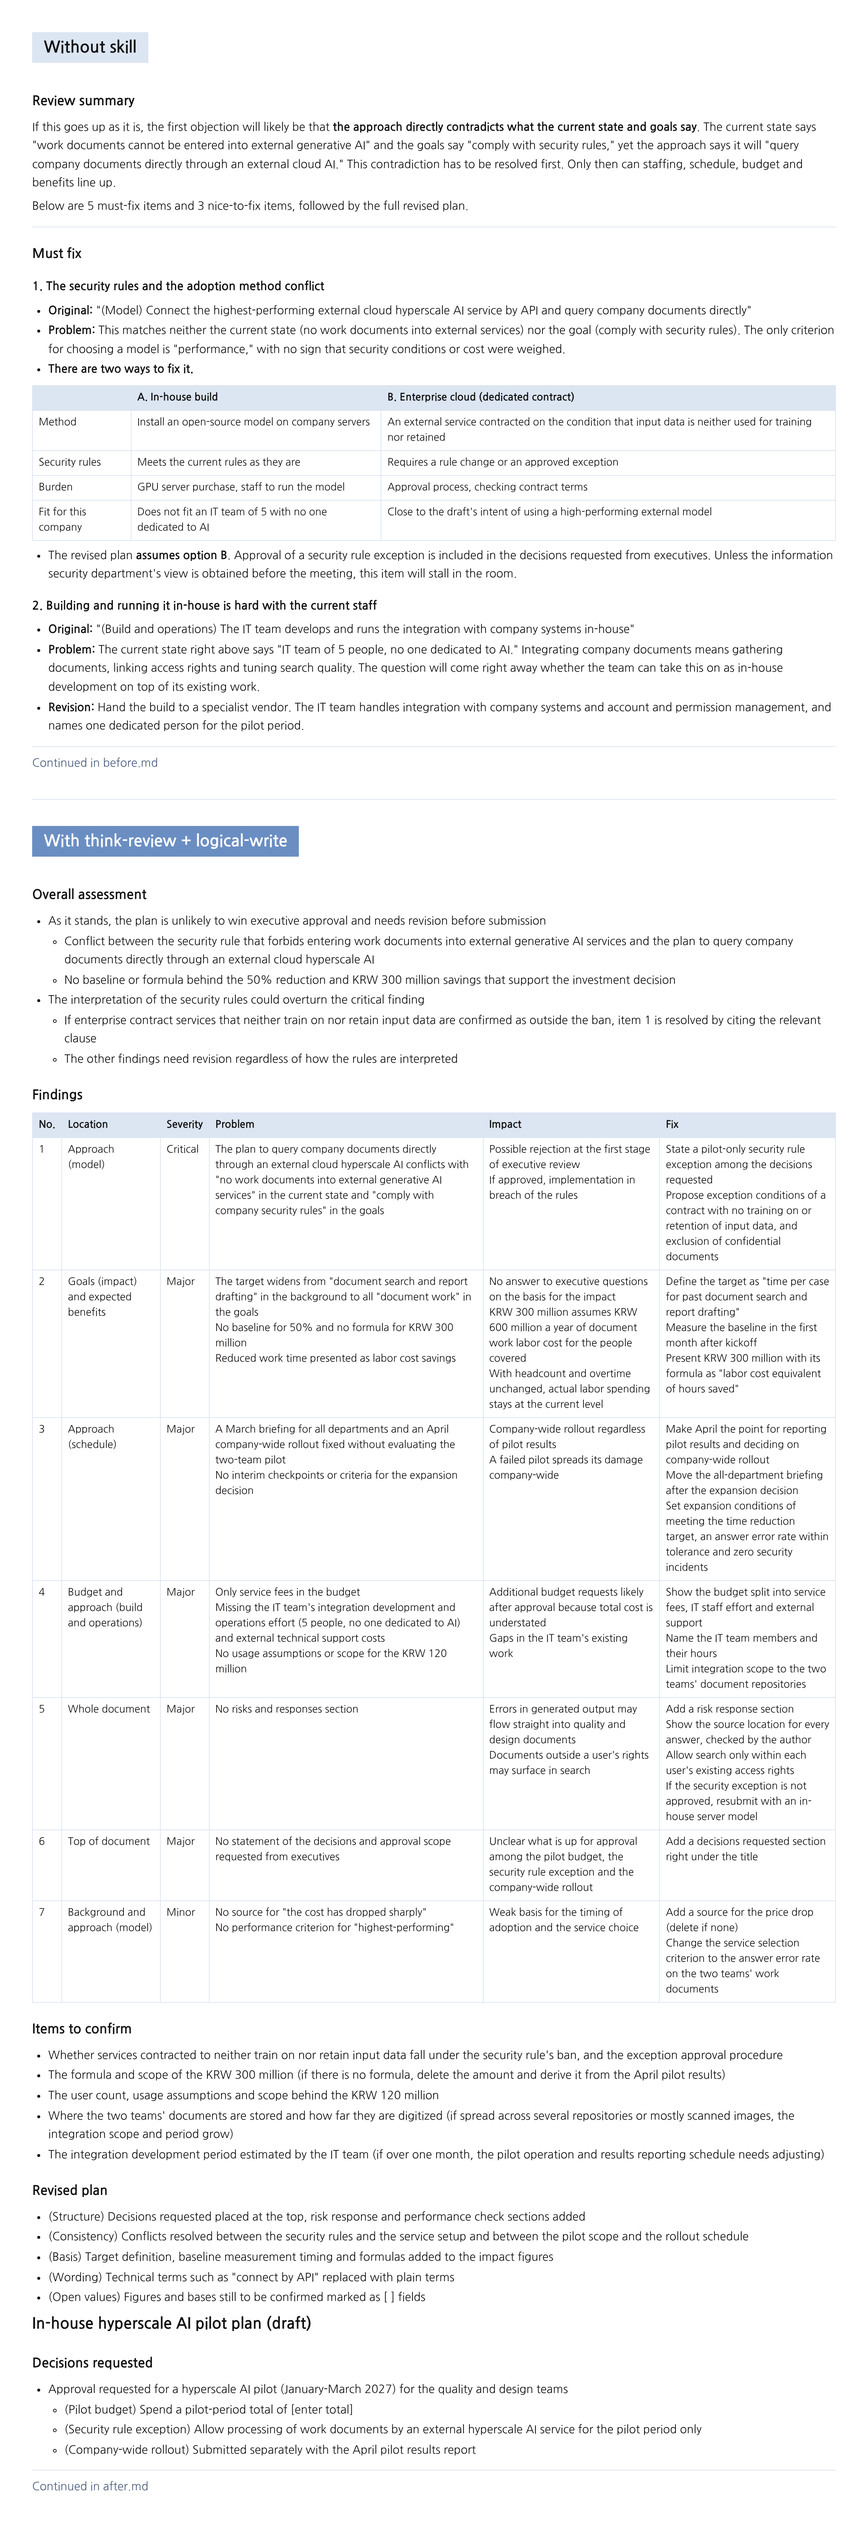
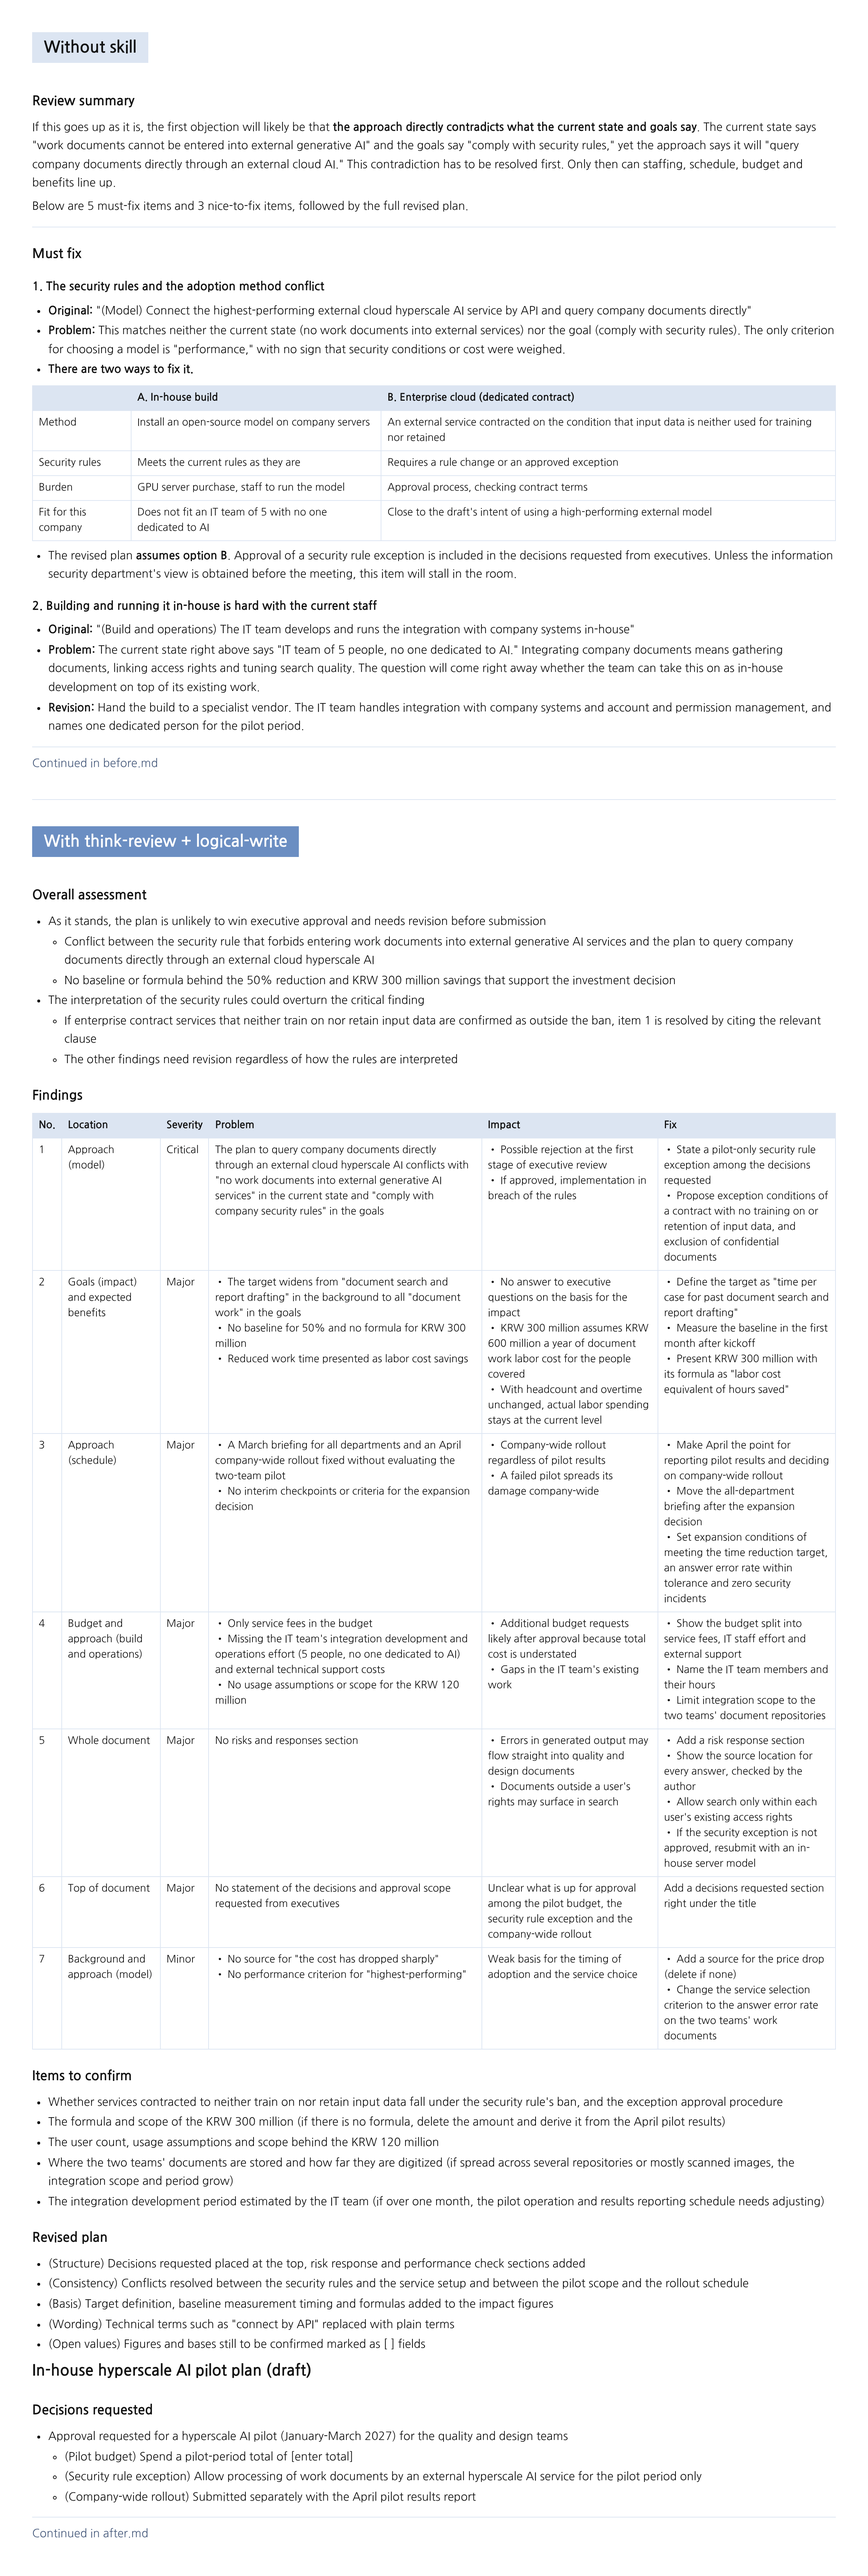
Bullet multi-line cells in the think-review findings table
The findings table joined several points per cell with <br>, which read
as one run-on block. Each line of a multi-line cell now starts with a
bullet in the Korean and English samples. Single-line cells are
unchanged. Both compare images were re-rendered from the edited text.

Claude-Session: https://claude.ai/code/session_013Pa4KQnbYgEBc9eWftjgtJ

diff --git a/skills/think-review/demo/en/after.md b/skills/think-review/demo/en/after.md
@@ -10,13 +10,13 @@
 
 | No. | Location | Severity | Problem | Impact | Fix |
 |---|---|---|---|---|---|
-| 1 | Approach (model) | Critical | The plan to query company documents directly through an external cloud hyperscale AI conflicts with "no work documents into external generative AI services" in the current state and "comply with company security rules" in the goals | Possible rejection at the first stage of executive review<br>If approved, implementation in breach of the rules | State a pilot-only security rule exception among the decisions requested<br>Propose exception conditions of a contract with no training on or retention of input data, and exclusion of confidential documents |
-| 2 | Goals (impact) and expected benefits | Major | The target widens from "document search and report drafting" in the background to all "document work" in the goals<br>No baseline for 50% and no formula for KRW 300 million<br>Reduced work time presented as labor cost savings | No answer to executive questions on the basis for the impact<br>KRW 300 million assumes KRW 600 million a year of document work labor cost for the people covered<br>With headcount and overtime unchanged, actual labor spending stays at the current level | Define the target as "time per case for past document search and report drafting"<br>Measure the baseline in the first month after kickoff<br>Present KRW 300 million with its formula as "labor cost equivalent of hours saved" |
-| 3 | Approach (schedule) | Major | A March briefing for all departments and an April company-wide rollout fixed without evaluating the two-team pilot<br>No interim checkpoints or criteria for the expansion decision | Company-wide rollout regardless of pilot results<br>A failed pilot spreads its damage company-wide | Make April the point for reporting pilot results and deciding on company-wide rollout<br>Move the all-department briefing after the expansion decision<br>Set expansion conditions of meeting the time reduction target, an answer error rate within tolerance and zero security incidents |
-| 4 | Budget and approach (build and operations) | Major | Only service fees in the budget<br>Missing the IT team's integration development and operations effort (5 people, no one dedicated to AI) and external technical support costs<br>No usage assumptions or scope for the KRW 120 million | Additional budget requests likely after approval because total cost is understated<br>Gaps in the IT team's existing work | Show the budget split into service fees, IT staff effort and external support<br>Name the IT team members and their hours<br>Limit integration scope to the two teams' document repositories |
-| 5 | Whole document | Major | No risks and responses section | Errors in generated output may flow straight into quality and design documents<br>Documents outside a user's rights may surface in search | Add a risk response section<br>Show the source location for every answer, checked by the author<br>Allow search only within each user's existing access rights<br>If the security exception is not approved, resubmit with an in-house server model |
+| 1 | Approach (model) | Critical | The plan to query company documents directly through an external cloud hyperscale AI conflicts with "no work documents into external generative AI services" in the current state and "comply with company security rules" in the goals | • Possible rejection at the first stage of executive review<br>• If approved, implementation in breach of the rules | • State a pilot-only security rule exception among the decisions requested<br>• Propose exception conditions of a contract with no training on or retention of input data, and exclusion of confidential documents |
+| 2 | Goals (impact) and expected benefits | Major | • The target widens from "document search and report drafting" in the background to all "document work" in the goals<br>• No baseline for 50% and no formula for KRW 300 million<br>• Reduced work time presented as labor cost savings | • No answer to executive questions on the basis for the impact<br>• KRW 300 million assumes KRW 600 million a year of document work labor cost for the people covered<br>• With headcount and overtime unchanged, actual labor spending stays at the current level | • Define the target as "time per case for past document search and report drafting"<br>• Measure the baseline in the first month after kickoff<br>• Present KRW 300 million with its formula as "labor cost equivalent of hours saved" |
+| 3 | Approach (schedule) | Major | • A March briefing for all departments and an April company-wide rollout fixed without evaluating the two-team pilot<br>• No interim checkpoints or criteria for the expansion decision | • Company-wide rollout regardless of pilot results<br>• A failed pilot spreads its damage company-wide | • Make April the point for reporting pilot results and deciding on company-wide rollout<br>• Move the all-department briefing after the expansion decision<br>• Set expansion conditions of meeting the time reduction target, an answer error rate within tolerance and zero security incidents |
+| 4 | Budget and approach (build and operations) | Major | • Only service fees in the budget<br>• Missing the IT team's integration development and operations effort (5 people, no one dedicated to AI) and external technical support costs<br>• No usage assumptions or scope for the KRW 120 million | • Additional budget requests likely after approval because total cost is understated<br>• Gaps in the IT team's existing work | • Show the budget split into service fees, IT staff effort and external support<br>• Name the IT team members and their hours<br>• Limit integration scope to the two teams' document repositories |
+| 5 | Whole document | Major | No risks and responses section | • Errors in generated output may flow straight into quality and design documents<br>• Documents outside a user's rights may surface in search | • Add a risk response section<br>• Show the source location for every answer, checked by the author<br>• Allow search only within each user's existing access rights<br>• If the security exception is not approved, resubmit with an in-house server model |
 | 6 | Top of document | Major | No statement of the decisions and approval scope requested from executives | Unclear what is up for approval among the pilot budget, the security rule exception and the company-wide rollout | Add a decisions requested section right under the title |
-| 7 | Background and approach (model) | Minor | No source for "the cost has dropped sharply"<br>No performance criterion for "highest-performing" | Weak basis for the timing of adoption and the service choice | Add a source for the price drop (delete if none)<br>Change the service selection criterion to the answer error rate on the two teams' work documents |
+| 7 | Background and approach (model) | Minor | • No source for "the cost has dropped sharply"<br>• No performance criterion for "highest-performing" | Weak basis for the timing of adoption and the service choice | • Add a source for the price drop (delete if none)<br>• Change the service selection criterion to the answer error rate on the two teams' work documents |
 
 ## Items to confirm
 - Whether services contracted to neither train on nor retain input data fall under the security rule's ban, and the exception approval procedure

diff --git a/skills/think-review/demo/ko/after.md b/skills/think-review/demo/ko/after.md
@@ -10,13 +10,13 @@
 
 | 번호 | 위치 | 심각도 | 문제 | 영향 | 수정안 |
 |---|---|---|---|---|---|
-| 1 | 추진 방안 (모델) | 치명 | 외부 클라우드 초거대AI에 사내 문서를 직접 질의하는 방안이 현황의 "외부 생성형 AI 서비스에 업무 문서 입력 불가" 및 목표의 "사내 보안 규정 준수"와 충돌 | 경영진 검토 첫 단계에서 반려 가능<br>승인 시 규정 위반 상태로 시행 | 시범 기간 한정 보안 규정 예외를 결정 요청 사항에 명시<br>예외 조건으로 입력 데이터 미학습 및 미보관 계약과 기밀 등급 문서 제외 제시 |
-| 2 | 추진 목표 (도입 효과) 및 기대 효과 | 중요 | 단축 대상이 배경의 "문서 검색과 보고서 초안 작성"에서 목표의 "문서 업무" 전체로 확대<br>50%의 기준값과 3억 원의 산출식 부재<br>업무 시간 단축을 인건비 절감으로 표기 | 효과 근거에 대한 경영진 질의에 답변 불가<br>3억 원은 대상 인원의 연간 문서 업무 인건비 6억 원을 전제<br>인원과 초과근무 유지 시 실제 인건비 지출은 현 수준 유지 | 단축 대상을 "과거 문서 검색과 보고서 초안 작성의 건당 소요 시간"으로 정의<br>착수 첫 달에 기준값 측정<br>3억 원은 산출식과 함께 "절감 시간의 인건비 환산액"으로 표기 |
-| 3 | 추진 방안 (일정) | 중요 | 두 팀 시범의 결과 평가 없이 3월 전 부서 설명회와 4월 전사 확대 확정<br>중간 점검 지표와 확대 판단 기준 부재 | 시범 결과와 관계없이 전사 확대 진행<br>시범 실패 시 피해가 전사로 확산 | 4월을 시범 결과 보고와 전사 확대 여부 결정 시점으로 변경<br>전 부서 설명회는 확대 결정 이후로 이동<br>확대 조건으로 시간 단축 목표 달성, 답변 오류율 허용 기준 이내, 보안 사고 0건 설정 |
-| 4 | 소요 예산 및 추진 방안 (구축과 운영) | 중요 | 예산에 서비스 이용료만 반영<br>AI 전담 인력이 없는 IT팀 5명의 연동 개발과 운영 투입분 및 외부 기술 지원 비용 누락<br>1억 2천만 원의 사용량 가정과 적용 범위 미기재 | 총비용 과소 보고로 승인 후 추가 예산 요청 발생 가능<br>IT팀 기존 업무의 공백 발생 | 예산을 서비스 이용료, IT 인력 투입, 외부 지원으로 나눠 기재<br>IT팀 담당자와 투입 시간 명시<br>연동 범위를 두 팀 문서 저장소로 한정 |
-| 5 | 문서 전체 | 중요 | 위험과 대응 항목 부재 | 생성 결과의 오류가 품질 및 설계 문서에 그대로 반영될 가능성<br>권한 밖 문서의 검색 노출 가능성 | 위험 대응 섹션 신설<br>답변마다 근거 원문 위치 표시 후 작성자 확인<br>사용자별 기존 열람 권한 범위 안에서만 검색 허용<br>보안 예외 불승인 시 사내 서버 설치형 모델로 재상정 |
+| 1 | 추진 방안 (모델) | 치명 | 외부 클라우드 초거대AI에 사내 문서를 직접 질의하는 방안이 현황의 "외부 생성형 AI 서비스에 업무 문서 입력 불가" 및 목표의 "사내 보안 규정 준수"와 충돌 | • 경영진 검토 첫 단계에서 반려 가능<br>• 승인 시 규정 위반 상태로 시행 | • 시범 기간 한정 보안 규정 예외를 결정 요청 사항에 명시<br>• 예외 조건으로 입력 데이터 미학습 및 미보관 계약과 기밀 등급 문서 제외 제시 |
+| 2 | 추진 목표 (도입 효과) 및 기대 효과 | 중요 | • 단축 대상이 배경의 "문서 검색과 보고서 초안 작성"에서 목표의 "문서 업무" 전체로 확대<br>• 50%의 기준값과 3억 원의 산출식 부재<br>• 업무 시간 단축을 인건비 절감으로 표기 | • 효과 근거에 대한 경영진 질의에 답변 불가<br>• 3억 원은 대상 인원의 연간 문서 업무 인건비 6억 원을 전제<br>• 인원과 초과근무 유지 시 실제 인건비 지출은 현 수준 유지 | • 단축 대상을 "과거 문서 검색과 보고서 초안 작성의 건당 소요 시간"으로 정의<br>• 착수 첫 달에 기준값 측정<br>• 3억 원은 산출식과 함께 "절감 시간의 인건비 환산액"으로 표기 |
+| 3 | 추진 방안 (일정) | 중요 | • 두 팀 시범의 결과 평가 없이 3월 전 부서 설명회와 4월 전사 확대 확정<br>• 중간 점검 지표와 확대 판단 기준 부재 | • 시범 결과와 관계없이 전사 확대 진행<br>• 시범 실패 시 피해가 전사로 확산 | • 4월을 시범 결과 보고와 전사 확대 여부 결정 시점으로 변경<br>• 전 부서 설명회는 확대 결정 이후로 이동<br>• 확대 조건으로 시간 단축 목표 달성, 답변 오류율 허용 기준 이내, 보안 사고 0건 설정 |
+| 4 | 소요 예산 및 추진 방안 (구축과 운영) | 중요 | • 예산에 서비스 이용료만 반영<br>• AI 전담 인력이 없는 IT팀 5명의 연동 개발과 운영 투입분 및 외부 기술 지원 비용 누락<br>• 1억 2천만 원의 사용량 가정과 적용 범위 미기재 | • 총비용 과소 보고로 승인 후 추가 예산 요청 발생 가능<br>• IT팀 기존 업무의 공백 발생 | • 예산을 서비스 이용료, IT 인력 투입, 외부 지원으로 나눠 기재<br>• IT팀 담당자와 투입 시간 명시<br>• 연동 범위를 두 팀 문서 저장소로 한정 |
+| 5 | 문서 전체 | 중요 | 위험과 대응 항목 부재 | • 생성 결과의 오류가 품질 및 설계 문서에 그대로 반영될 가능성<br>• 권한 밖 문서의 검색 노출 가능성 | • 위험 대응 섹션 신설<br>• 답변마다 근거 원문 위치 표시 후 작성자 확인<br>• 사용자별 기존 열람 권한 범위 안에서만 검색 허용<br>• 보안 예외 불승인 시 사내 서버 설치형 모델로 재상정 |
 | 6 | 문서 첫머리 | 중요 | 경영진에게 요청하는 결정 사항과 승인 범위 미기재 | 시범 예산, 보안 규정 예외, 전사 확대 가운데 승인 대상 불명확 | 제목 바로 아래 결정 요청 사항 섹션 신설 |
-| 7 | 추진 배경 및 추진 방안 (모델) | 경미 | "이용 비용이 크게 하락"의 출처 부재<br>"성능이 가장 높은"의 성능 판단 기준 부재 | 도입 시점과 서비스 선정의 근거 약화 | 요금 하락 출처 병기 (출처 부재 시 삭제)<br>서비스 선정 기준을 두 팀 업무 문서 기반 답변 오류율로 변경 |
+| 7 | 추진 배경 및 추진 방안 (모델) | 경미 | • "이용 비용이 크게 하락"의 출처 부재<br>• "성능이 가장 높은"의 성능 판단 기준 부재 | 도입 시점과 서비스 선정의 근거 약화 | • 요금 하락 출처 병기 (출처 부재 시 삭제)<br>• 서비스 선정 기준을 두 팀 업무 문서 기반 답변 오류율로 변경 |
 
 ## 확인이 필요한 사항
 - 보안 규정의 금지 대상에 입력 데이터 미학습 및 미보관 계약 서비스가 포함되는지 여부와 예외 승인 절차
